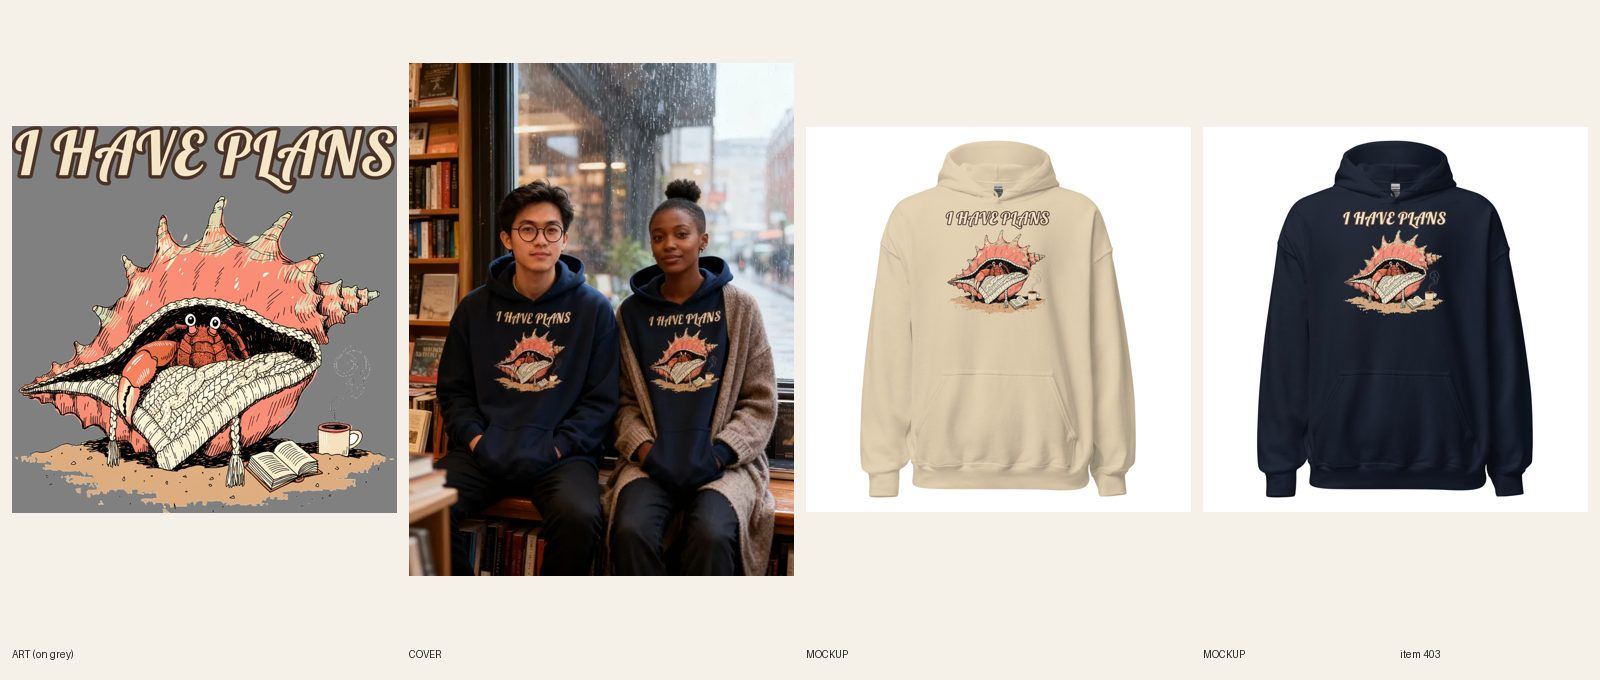
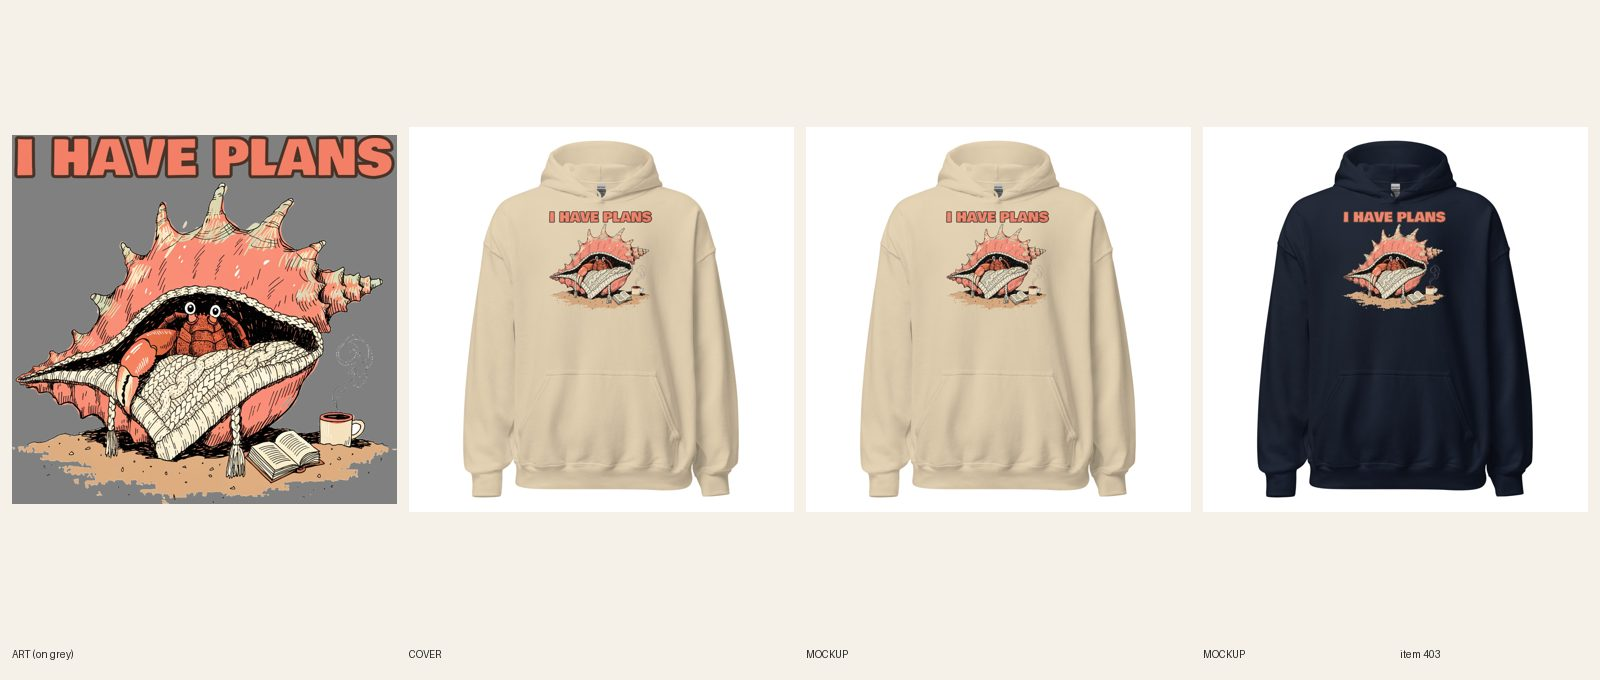
[B] review 403 Unisex Introvert I Have Plans hoodie (type redo)
Claude-Session: https://claude.ai/code/session_0192KFADUpAWdnGxAXLCXhDx

Changed region(s): [[0.0, 0.0926, 0.5, 0.8647], [0.8438, 0.3088, 0.9062, 0.4632], [0.5938, 0.3088, 0.6562, 0.4632]]

diff --git a/docs/pipeline/403-introvert-hoodie-i-have-plans.md b/docs/pipeline/403-introvert-hoodie-i-have-plans.md
@@ -1,4 +1,4 @@
-status: BUILDING [B] 2026-10-19T16:02Z
+status: REVIEW
 lane: B
 type: new
 id: 403
@@ -30,3 +30,4 @@ kd: 38
 - 2026-10-18 01:15 UTC builder [B]: synced 12/12. REVIEW. Sheet docs/review/403.jpg.
 - 2026-10-17 20:16 UTC director: APPROVED, LIVE. ACTIVE + published Online Store, Headless, Google; cohesion-audit --handle PASS.
 - 2026-10-18 17:22 UTC director: QUALITY RESET grade B (type only), REDO. The product stays ACTIVE (same handle, URL, title keyword). Keep the line "I HAVE PLANS" and the art. 1. Type: Ironic introvert line works; type is mid-weight script only, no heavy headline or hierarchy. 2. Quality reset type bar (docs/backlog/quality-reset.md, 'The new bar'): headline at least 90% of the art width, heavy, colors pulled from the art; second line at least 45% of the headline's height, never a thin script on a dark or mid garment; use the lettering as a shape (arch, stacked lockup, words breaking into the art), not a plain bar above and a script line below; no font used on more than 1 in 6 of the last 30 designs. 3. New print file means a new cover per R6.10 and a fresh review sheet (R7.7). While quality-reset.md says PAUSED, only lane A builds, and only the samples step 2 names.
+- 2026-10-19 16:30 UTC builder [B]: REDO type-only done. Same art (ip-a.png), new print designs/b/ip2.json (BowlbyOne, I HAVE PLANS coral #f27f66 with brown #4a3328 keyline, one heavy line at the art's full width, coral pulled from the shell; no cream fill so no light file needed, reads on Sand and Navy). Printful file 1089644658, FW 1500 TOP 0, resynced. Front mockups Sand and Navy replaced in place in Shopify (back unchanged). Copy sentence about the lettering updated. Cover: plain product shot (handle added to retired-covers.json). Phone-size read ok. fal $0. Sheet docs/review/403.jpg.

diff --git a/docs/intake-log.md b/docs/intake-log.md
@@ -1,6 +1,8 @@
 RUNNING lane B since 2026-10-19 16:02 UTC
 2026-10-19 16:13 UTC — [A] Builder run: redid #244 Nana's Cookies crewneck (ported approved #245 THE RECIPE / DIES WITH ME. print, FW 1650, 30/30 relinked, 5 fronts replaced, plain product shot). REVIEW. fal $0. 1 redo per run cap reached. Lock released.
 RUNNING lane C since 2026-10-19 15:56 UTC
+2026-10-19 16:40 UTC — [B] Builder run: redid #403 I Have Plans hoodie (type only: BowlbyOne coral headline at full art width, same crab art, FW 1500, 12/12 synced, Sand+Navy mockups replaced in place, plain product shot). REVIEW. fal $0. 1 redo per run cap reached. Lock released.
+RUNNING lane A since 2026-10-19 15:59 UTC
 2026-10-19 16:00 UTC — [E] Builder run: redid #282 Bulking Season tee (type only: Anton stacked red/green lockup at about 92% art width, same Santa art, FW 1400, 42/42 synced, 6 front mockups replaced in place, plain product shot). REVIEW. fal $0. 1 redo per run cap reached. Lock released.
 2026-10-19 16:02 UTC — [C] Builder run: redid #441 Eight Arms, Zero Hugs oversized hoodie (type only: heavy AlfaSlabOne cream/coral lockup, same art, FW 1500, 12/12 synced, Dust+Navy mockups replaced in place, plain product shot). REVIEW. fal $0. 1 redo per run cap reached. Lock released.
 2026-10-19 15:47 UTC — [A] Builder run: RESUMED; redid #239 Resting My Eyes tee (type only: heavy stacked RESTING / MY EYES lockup, same art, FW 1400, 42/42 synced, mockups replaced in place, plain product shot). REVIEW. fal $0. 1 redo per run cap reached. Lock released.
